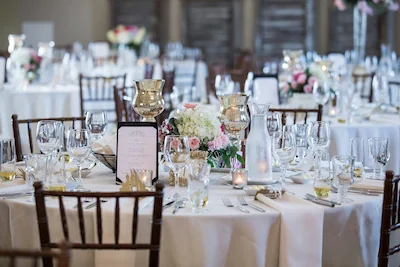
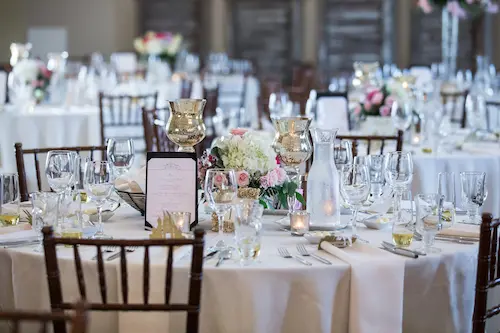
CoC overall Enhancement

diff --git a/chamber/styles/home.css b/chamber/styles/home.css
@@ -33,6 +33,7 @@
 
 /* Events */
 .event {
+    display: grid;
     width: 100dvw;
     position: relative;
     left: 50%;
@@ -42,6 +43,21 @@
     background-color: var(--primary-color);
     color: var(--text-on-primary);
     padding: 1rem 3rem;
+    grid-template-areas: "title"
+    "image"
+    "description";
+}
+
+.event picture {
+    grid-area: image;
+}
+
+.event h3 {
+    grid-area: title;
+}
+
+.event p {
+    grid-area: description;
 }
 
 .event img {
@@ -211,20 +227,7 @@ span.member-category {
     }
 
     .event {
-        display: grid;
         grid-template-areas: "title image"
         "description image";
-    }
-    
-    .event picture {
-        grid-area: image;
-    }
-
-    .event h3 {
-        grid-area: title;
-    }
-
-    .event p {
-        grid-area: description;
     }
 }

diff --git a/chamber/styles/join.css b/chamber/styles/join.css
@@ -88,6 +88,12 @@ input[type="submit"] {
     box-shadow: 1px 1px 5px #ddd inset;
     cursor: pointer;
     border: 1px solid #aaa;
+    transition: all 300ms ease;
+}
+
+input[type="submit"]:hover {
+    background-color: var(--text-on-primary);
+    color: var(--primary-color);
 }
 
 /* Membership Details Card */
@@ -108,6 +114,16 @@ input[type="submit"] {
     box-shadow: 5px 5px 10px #aaa;
 }
 
+.card:nth-child(2) {
+    animation-delay: 100ms;
+}
+.card:nth-child(3) {
+    animation-delay: 200ms;
+}
+.card:nth-child(4) {
+    animation-delay: 300ms;
+}
+
 .card h3 {
     font-size: 1.5rem;
 }
@@ -125,6 +141,10 @@ input[type="submit"] {
 }
 
 @keyframes fadeIn {
+    -100% {
+        opacity: 0;
+    }
+
     0% {
         transform: translateY(75%);
         opacity: 0;
